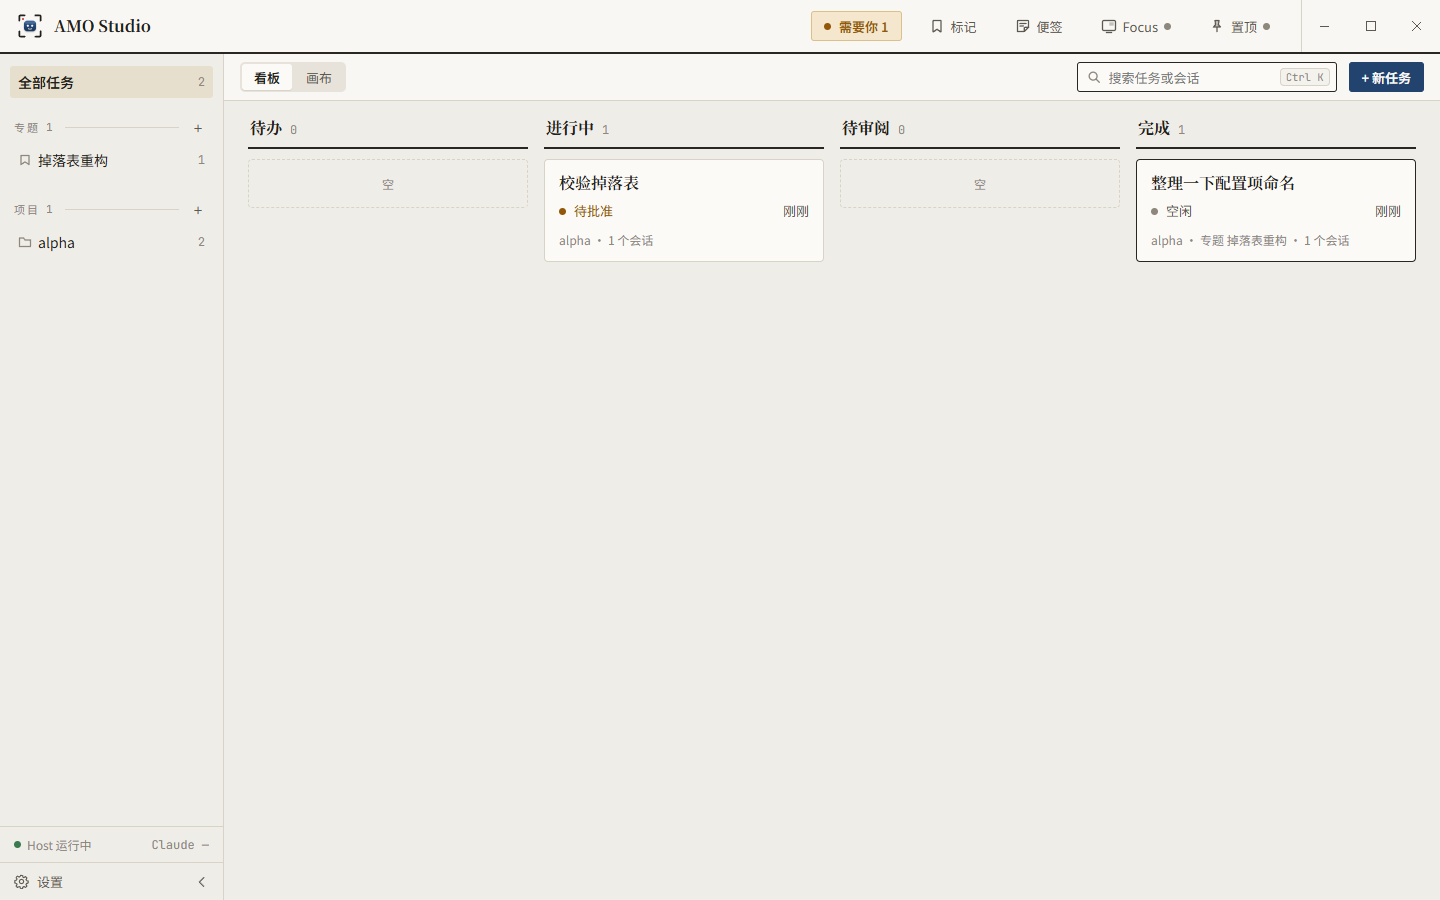
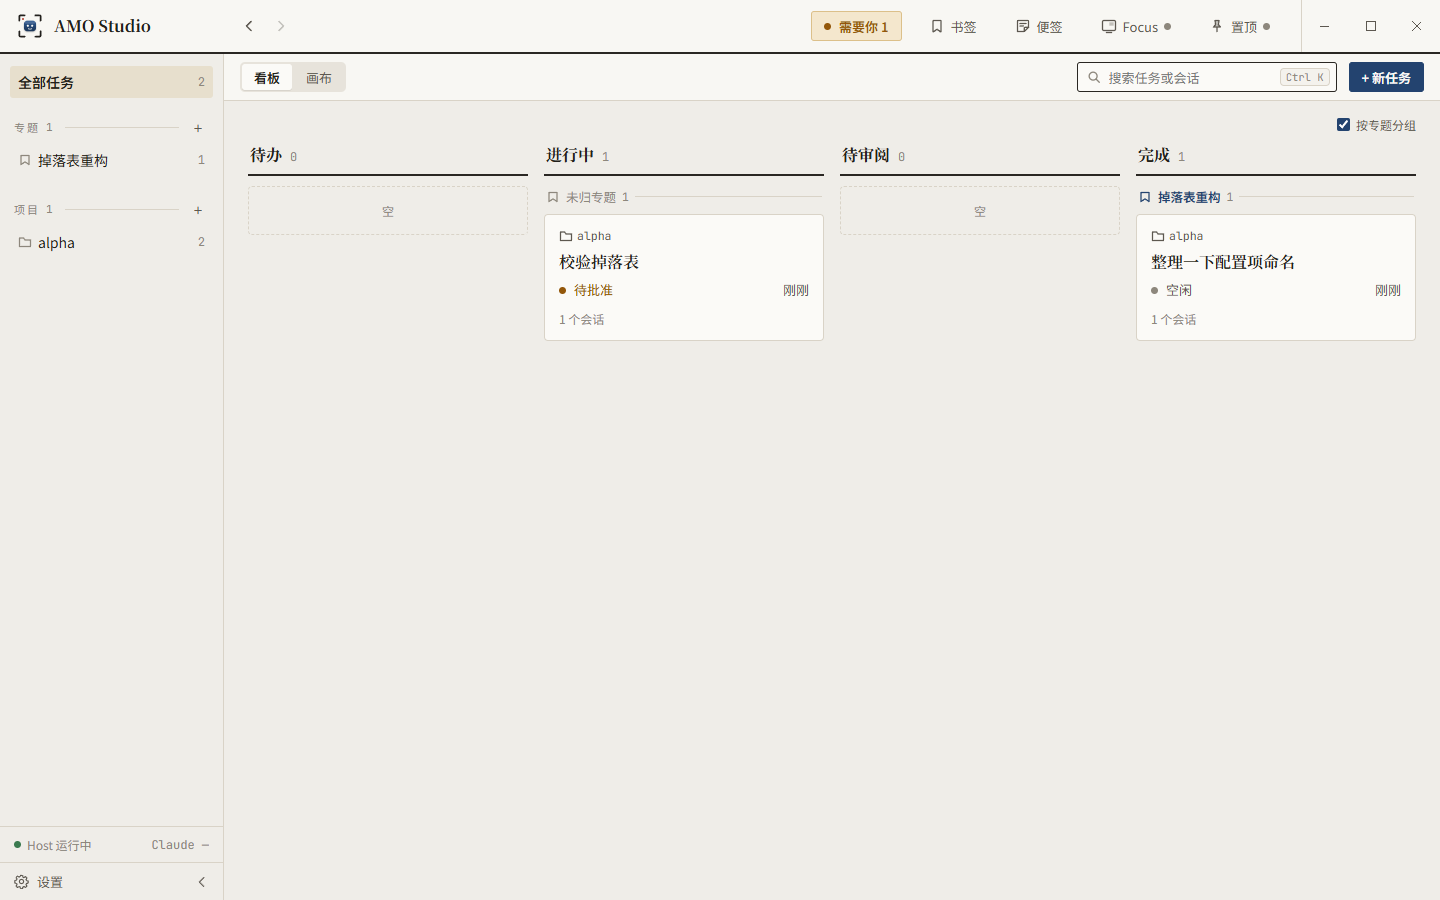
feat(studio): board cards say 「专题 › 项目」; 按专题分组 (on by default)
Each card names its topic (the left column's bookmark, in the accent) and its
project (folder, code type) in one line above the title, only what the scope
does not already say. A toggle above the columns groups each column's cards
under their topics, the ones in none last; the cards then name only the project.

diff --git a/studio/packages/ui/src/board/Board.tsx b/studio/packages/ui/src/board/Board.tsx
@@ -2,6 +2,8 @@ import { useState } from "react";
 import { TASK_COLUMNS, taskProject, type Session, type Task, type TaskColumn, type Topic, type Workspace } from "@amo-studio/protocol";
 import { COLUMN_NAMES, relativeTime, SESSION_LOOK, taskSessions, taskStatus } from "../lib/status.js";
 import { ArchivedTasks } from "./ArchivedTasks.js";
+import { KindIcon } from "./KindIcon.js";
+import { setGroupByTopic, useGroupByTopic } from "./prefs.js";
 
 /** What the board shows: everything, one topic's tasks, or one project's. Archived tasks are never on the board. */
 export type Scope = { kind: "all" } | { kind: "topic"; id: string } | { kind: "workspace"; id: string };
@@ -11,6 +13,23 @@ export function inScope(task: Task, scope: Scope): boolean {
   if (scope.kind === "all") return true;
   if (scope.kind === "topic") return task.topicId === scope.id;
   return task.workspaceId === scope.id;
+}
+
+/** A column's cards under their topics (2026-10-19, 按专题分组): topics in the order their newest card comes, none last. */
+export function topicGroups(cards: readonly Task[], topics: readonly Topic[]): Array<{ topic: Topic | null; tasks: Task[] }> {
+  const groups = new Map<string, { topic: Topic | null; tasks: Task[] }>();
+  const none: Task[] = [];
+  for (const task of cards) {
+    const topic = task.topicId ? topics.find((t) => t.id === task.topicId) : undefined;
+    if (!topic) {
+      none.push(task);
+      continue;
+    }
+    const g = groups.get(topic.id);
+    if (g) g.tasks.push(task);
+    else groups.set(topic.id, { topic, tasks: [task] });
+  }
+  return [...groups.values(), ...(none.length ? [{ topic: null, tasks: none }] : [])];
 }
 
 interface BoardProps {
@@ -34,9 +53,43 @@ export function Board({ tasks, sessions, workspaces, topics, scope, onOpen, onMo
   const visible = tasks.filter((t) => inScope(t, scope)).sort((a, b) => b.updatedAt.localeCompare(a.updatedAt));
   const [dragging, setDragging] = useState<Task | null>(null);
   const [over, setOver] = useState<TaskColumn | null>(null);
+  // 按专题分组: wherever the board holds more than one topic's tasks (not in a topic's own board).
+  const groupOn = useGroupByTopic();
+  const canGroup = scope.kind !== "topic";
+  const grouped = canGroup && groupOn;
+
+  const card = (task: Task) => (
+    <TaskCard
+      key={task.id}
+      task={task}
+      sessions={taskSessions(task, sessions)}
+      scope={scope}
+      grouped={grouped}
+      workspaces={workspaces}
+      topics={topics}
+      onOpen={onOpen}
+      draggable={!!onMove}
+      onDragStart={() => setDragging(task)}
+      onDragEnd={() => {
+        setDragging(null);
+        setOver(null);
+      }}
+      mail={mail?.get(task.id) ?? 0}
+      decisions={decisions?.get(task.id) ?? 0}
+      {...(checklist?.get(task.id) ? { checklist: checklist.get(task.id)! } : {})}
+    />
+  );
 
   return (
-    <section className="board" aria-label="看板">
+    <section className={canGroup ? "board with-tools" : "board"} aria-label="看板">
+      {canGroup && (
+        <div className="board-tools">
+          <label className="board-toggle" title="每一列里，任务按专题分组排列；没归专题的排在最后">
+            <input type="checkbox" checked={groupOn} onChange={(e) => setGroupByTopic(e.target.checked)} data-testid="board-group-topics" />
+            按专题分组
+          </label>
+        </div>
+      )}
       {TASK_COLUMNS.map((col) => {
         const cards = visible.filter((t) => t.column === col);
         return (
@@ -64,26 +117,19 @@ export function Board({ tasks, sessions, workspaces, topics, scope, onOpen, onMo
               <span className="column-name">{COLUMN_NAMES[col]}</span>
               <span className="column-count">{cards.length}</span>
             </div>
-            {cards.map((task) => (
-              <TaskCard
-                key={task.id}
-                task={task}
-                sessions={taskSessions(task, sessions)}
-                scope={scope}
-                workspaces={workspaces}
-                topics={topics}
-                onOpen={onOpen}
-                draggable={!!onMove}
-                onDragStart={() => setDragging(task)}
-                onDragEnd={() => {
-                  setDragging(null);
-                  setOver(null);
-                }}
-                mail={mail?.get(task.id) ?? 0}
-                decisions={decisions?.get(task.id) ?? 0}
-                {...(checklist?.get(task.id) ? { checklist: checklist.get(task.id)! } : {})}
-              />
-            ))}
+            {grouped
+              ? topicGroups(cards, topics).map((g) => (
+                  <div className="topic-group" key={g.topic?.id ?? ""} data-testid="topic-group" data-topic={g.topic?.title ?? ""}>
+                    <div className={g.topic ? "topic-group-head" : "topic-group-head none"}>
+                      <KindIcon kind="topic" />
+                      <span className="topic-group-name">{g.topic?.title ?? "未归专题"}</span>
+                      <span className="topic-group-count">{g.tasks.length}</span>
+                      <span className="topic-group-rule" />
+                    </div>
+                    {g.tasks.map(card)}
+                  </div>
+                ))
+              : cards.map(card)}
             {cards.length === 0 && <div className="empty-col">空</div>}
             {/* Archived tasks leave the board; the last column offers them. */}
             {col === TASK_COLUMNS[TASK_COLUMNS.length - 1] && <ArchivedTasks tasks={tasks} workspaces={workspaces} topics={topics} scope={scope} onOpen={onOpen} />}
@@ -98,6 +144,7 @@ function TaskCard({
   task,
   sessions,
   scope,
+  grouped = false,
   workspaces,
   topics,
   onOpen,
@@ -111,6 +158,8 @@ function TaskCard({
   task: Task;
   sessions: Session[];
   scope: Scope;
+  /** Under its topic's group head: the card does not name the topic again. */
+  grouped?: boolean;
   workspaces: readonly Workspace[];
   topics: readonly Topic[];
   onOpen(t: Task): void;
@@ -127,12 +176,13 @@ function TaskCard({
   const mains = live.filter((s) => s.kind === "main");
   const branches = live.length - mains.length;
 
-  // The card names what the current scope does not already say; a task without a project shows none.
-  const project = scope.kind === "workspace" ? null : taskProject(task, workspaces)?.name;
-  const topic = scope.kind === "topic" || !task.topicId ? null : topics.find((t) => t.id === task.topicId)?.title;
-  const meta = [project ?? "", topic ? `专题 ${topic}` : "", mains.length ? `${mains.length} 个会话` : "还没有会话", branches ? `${branches} 个分支` : "", checklist ? `清单 ${checklist.done}/${checklist.total}` : ""]
-    .filter(Boolean)
-    .join(" · ");
+  // 归属行 (2026-10-19): 「专题 › 项目」 above the title, naming only what the scope (or the topic group) does not
+  // already say. In 全部任务 a task in no topic says so; a task in the common space names no project.
+  const project = scope.kind === "workspace" ? null : (taskProject(task, workspaces)?.name ?? null);
+  const showTopic = scope.kind !== "topic" && !grouped;
+  const topic = showTopic && task.topicId ? (topics.find((t) => t.id === task.topicId)?.title ?? null) : null;
+  const noTopic = showTopic && !topic && scope.kind === "all";
+  const meta = [mains.length ? `${mains.length} 个会话` : "还没有会话", branches ? `${branches} 个分支` : "", checklist ? `清单 ${checklist.done}/${checklist.total}` : ""].filter(Boolean).join(" · ");
   // Collaboration hints are counts in the meta line, not a second status: the dot keeps one status per card.
   const asks = [decisions ? `${decisions} 个待决策` : "", mail ? `${mail} 条留言` : ""].filter(Boolean).join(" · ");
 
@@ -151,6 +201,28 @@ function TaskCard({
       data-testid="task-card"
       data-task-id={task.id}
     >
+      {(topic || noTopic || project) && (
+        <span className="card-where" data-testid="card-where">
+          {topic && (
+            <span className="card-topic" title={`专题：${topic}`}>
+              <KindIcon kind="topic" />
+              {topic}
+            </span>
+          )}
+          {noTopic && <span className="card-topic none">未归专题</span>}
+          {(topic || noTopic) && project && (
+            <span className="card-where-sep" aria-hidden="true">
+              ›
+            </span>
+          )}
+          {project && (
+            <span className="card-project" title={`项目：${project}`}>
+              <KindIcon kind="workspace" />
+              <span className="card-project-name">{project}</span>
+            </span>
+          )}
+        </span>
+      )}
       <span className="card-title">
         {task.lead && (
           <span className="lead-badge" title="主控：协调这个专题（或项目）的任务" data-testid="lead-badge">

diff --git a/studio/packages/ui/src/board/board.css b/studio/packages/ui/src/board/board.css
@@ -10,6 +10,30 @@
 .card-title { font-family: var(--font-display); font-weight: 600; font-size: var(--fs-title); line-height: 1.35; overflow-wrap: anywhere; }
 .card-status { display: flex; align-items: center; gap: 8px; font-size: var(--fs-sm); color: var(--text-dim); }
 .card-meta { font-size: var(--fs-cap); color: var(--text-faint); }
+/* 归属行 (2026-10-19): 「专题 › 项目」 above the title — the topic in the accent with the left column's bookmark, the
+   project in code type with its folder. */
+.card-where { display: flex; align-items: center; gap: 5px; min-width: 0; margin-bottom: -2px; font-size: var(--fs-cap); line-height: 18px; }
+.card-where svg { flex: none; fill: none; stroke: currentColor; stroke-width: 1.3; stroke-linejoin: round; }
+.card-topic { display: inline-flex; align-items: center; gap: 4px; min-width: 0; flex: 0 1 auto; color: var(--primary); font-weight: 600; white-space: nowrap; overflow: hidden; text-overflow: ellipsis; }
+.card-topic.none { color: var(--text-faint); font-weight: 400; }
+.card-where-sep { flex: none; color: var(--text-faint); padding: 0 1px; }
+.card-project { display: inline-flex; align-items: center; gap: 4px; min-width: 0; flex: 0 1 auto; color: var(--text-dim); }
+.card-project-name { font-family: var(--font-code); font-size: 11.5px; white-space: nowrap; overflow: hidden; text-overflow: ellipsis; }
+
+/* 按专题分组: the toggle above the columns, and each column's topic groups. */
+.board.with-tools { grid-template-rows: auto 1fr; row-gap: 8px; }
+.board-tools { grid-column: 1 / -1; display: flex; justify-content: flex-end; }
+.board-toggle { display: inline-flex; align-items: center; gap: 6px; font-size: var(--fs-cap); color: var(--text-dim); cursor: pointer; user-select: none; }
+.board-toggle input { margin: 0; accent-color: var(--primary); }
+.topic-group { display: flex; flex-direction: column; gap: 8px; }
+.topic-group + .topic-group { margin-top: 4px; }
+.topic-group-head { display: flex; align-items: center; gap: 6px; min-width: 0; padding: 2px 2px 0; font-size: 12.5px; line-height: 18px; color: var(--primary); }
+.topic-group-head svg { flex: none; fill: none; stroke: currentColor; stroke-width: 1.3; stroke-linejoin: round; }
+.topic-group-head.none { color: var(--text-faint); }
+.topic-group-name { font-weight: 600; white-space: nowrap; overflow: hidden; text-overflow: ellipsis; }
+.topic-group-head.none .topic-group-name { font-weight: 400; }
+.topic-group-count { flex: none; color: var(--text-faint); font-family: var(--font-code); font-size: 11.5px; }
+.topic-group-rule { flex: 1 1 12px; height: 1px; background: var(--border); }
 .dot { width: 7px; height: 7px; border-radius: 50%; flex: none; }
 .empty-col { padding: 14px; border: 1px dashed var(--border); border-radius: var(--r-l); color: var(--text-faint); font-size: var(--fs-cap); text-align: center; }
 

diff --git a/studio/e2e/tests/board.spec.ts b/studio/e2e/tests/board.spec.ts
@@ -56,7 +56,26 @@ test("registers a sandbox workspace and shows tasks on the board", async () => {
   await expect(page.getByTestId("task-card")).toHaveCount(1);
   await page.getByTestId("scope-all").click();
   await expect(page.getByTestId("task-card")).toHaveCount(2);
-  await expect(page.getByTestId("column-review").getByTestId("task-card")).toContainText("专题 掉落表重构");
+  // 按专题分组 (on by default, 2026-10-19): the card sits under its topic; the one in none under 未归专题, last.
+  await expect(page.getByTestId("board-group-topics")).toBeChecked();
+  const reviewGroup = page.getByTestId("column-review").getByTestId("topic-group");
+  await expect(reviewGroup).toHaveAttribute("data-topic", "掉落表重构");
+  await expect(reviewGroup.getByTestId("task-card").getByTestId("card-where")).toHaveText("alpha");
+  await expect(page.getByTestId("column-doing").getByTestId("topic-group")).toHaveAttribute("data-topic", "");
+  await expect(page.getByTestId("column-doing").getByTestId("topic-group")).toContainText("未归专题");
+  await screenshot(studio.app, "stage-18", "S18-board-groups", page);
+  // Off: no groups; each card says 「专题 › 项目」 above its title.
+  await page.getByTestId("board-group-topics").uncheck();
+  await expect(page.getByTestId("topic-group")).toHaveCount(0);
+  await expect(page.getByTestId("column-review").getByTestId("card-where")).toHaveText("掉落表重构›alpha");
+  await expect(page.getByTestId("column-doing").getByTestId("card-where")).toHaveText("未归专题›alpha");
+  await screenshot(studio.app, "stage-18", "S18-board-where", page);
+  // A topic's own board names neither its topic nor offers the toggle.
+  await page.getByTestId("scope-topic-掉落表重构").click();
+  await expect(page.getByTestId("board-group-topics")).toHaveCount(0);
+  await expect(page.getByTestId("card-where")).toHaveText("alpha");
+  await page.getByTestId("scope-all").click();
+  await page.getByTestId("board-group-topics").check();
 
   // Drag a card onto another column: the person moves cards. The whole column takes it, down to the page's bottom
   // (2026-10-17), not only the height of its cards.

diff --git a/studio/packages/ui/src/board/prefs.ts b/studio/packages/ui/src/board/prefs.ts
@@ -1,0 +1,40 @@
+import { useEffect, useState } from "react";
+
+// 按专题分组 (2026-10-19): the board's columns hold their cards under their topics, the ones in none last. On unless
+// turned off on the board; stored per install.
+
+const GROUP_KEY = "amo.boardGroupTopics";
+const GROUP_EVENT = "amo:board-group-topics";
+
+export function groupByTopic(): boolean {
+  try {
+    return localStorage.getItem(GROUP_KEY) !== "off";
+  } catch {
+    return true;
+  }
+}
+
+export function setGroupByTopic(on: boolean): void {
+  try {
+    localStorage.setItem(GROUP_KEY, on ? "on" : "off");
+  } catch {
+    // private profile: still applies until reload
+  }
+  window.dispatchEvent(new CustomEvent(GROUP_EVENT, { detail: on }));
+}
+
+/** Whether the board groups by topic, following changes made in this window or another (storage event). */
+export function useGroupByTopic(): boolean {
+  const [on, setOn] = useState(groupByTopic);
+  useEffect(() => {
+    const local = (e: Event) => setOn((e as CustomEvent<boolean>).detail);
+    const other = (e: StorageEvent) => e.key === GROUP_KEY && setOn(groupByTopic());
+    window.addEventListener(GROUP_EVENT, local);
+    window.addEventListener("storage", other);
+    return () => {
+      window.removeEventListener(GROUP_EVENT, local);
+      window.removeEventListener("storage", other);
+    };
+  }, []);
+  return on;
+}

diff --git a/studio/packages/ui/src/board/ScopeNav.tsx b/studio/packages/ui/src/board/ScopeNav.tsx
@@ -4,6 +4,7 @@ import { call, HostApiError, type HostLink } from "../host/client.js";
 import { pinnedFirst, togglePin, usePins, type PinKind } from "../lib/pins.js";
 import type { Scope } from "./Board.js";
 import { UsageFooter } from "./UsageFooter.js";
+import { KindIcon } from "./KindIcon.js";
 import { ProjectReviewMenu, type ProjectMenuAt } from "../gitreview/ProjectReviewMenu.js";
 import { ConfirmDialog } from "../lib/ConfirmDialog.js";
 import { EditProjectDialog } from "./EditProjectDialog.js";
@@ -444,9 +445,5 @@ function TopicMenu({ at, onClose, onEdit, onArchive }: { at: { x: number; y: num
 
 /** A topic's bookmark or a project's folder, before its name in the left column. */
 function NavKindIcon({ kind }: { kind: PinKind }) {
-  return (
-    <svg className="nav-kind" width="14" height="14" viewBox="0 0 14 14" aria-hidden="true">
-      {kind === "topic" ? <path d="M3 2.5h8v9l-4-2.6-4 2.6z" /> : <path d="M1.5 4V11.5h11V5H7L5.6 3H1.5z" />}
-    </svg>
-  );
+  return <KindIcon kind={kind === "topic" ? "topic" : "workspace"} className="nav-kind" />;
 }

diff --git a/studio/packages/ui/src/board/topicGroups.test.ts b/studio/packages/ui/src/board/topicGroups.test.ts
@@ -1,0 +1,21 @@
+import { describe, expect, it } from "vitest";
+import type { Task, Topic } from "@amo-studio/protocol";
+import { topicGroups } from "./Board.js";
+
+const topic = (id: string, title: string) => ({ id, title }) as Topic;
+const task = (id: string, topicId: string | null) => ({ id, topicId }) as Task;
+
+describe("按专题分组", () => {
+  it("puts a column's cards under their topics in the order their newest card comes, the ones in none last", () => {
+    const topics = [topic("p1", "发布 0.9"), topic("p2", "模型接入")];
+    // Cards come newest first.
+    const groups = topicGroups([task("a", "p2"), task("b", null), task("c", "p1"), task("d", "p2"), task("e", "gone")], topics);
+    expect(groups.map((g) => [g.topic?.title ?? null, g.tasks.map((t) => t.id)])).toEqual([
+      ["模型接入", ["a", "d"]],
+      ["发布 0.9", ["c"]],
+      // A topic that is not (or no longer) known counts as none.
+      [null, ["b", "e"]],
+    ]);
+    expect(topicGroups([], topics)).toEqual([]);
+  });
+});

diff --git a/studio/packages/ui/src/board/KindIcon.tsx b/studio/packages/ui/src/board/KindIcon.tsx
@@ -1,0 +1,8 @@
+/** A topic's bookmark or a project's folder: the left column's marks, also on the board's cards and topic groups. */
+export function KindIcon({ kind, className }: { kind: "topic" | "workspace"; className?: string }) {
+  return (
+    <svg className={className} width="14" height="14" viewBox="0 0 14 14" aria-hidden="true">
+      {kind === "topic" ? <path d="M3 2.5h8v9l-4-2.6-4 2.6z" /> : <path d="M1.5 4V11.5h11V5H7L5.6 3H1.5z" />}
+    </svg>
+  );
+}
